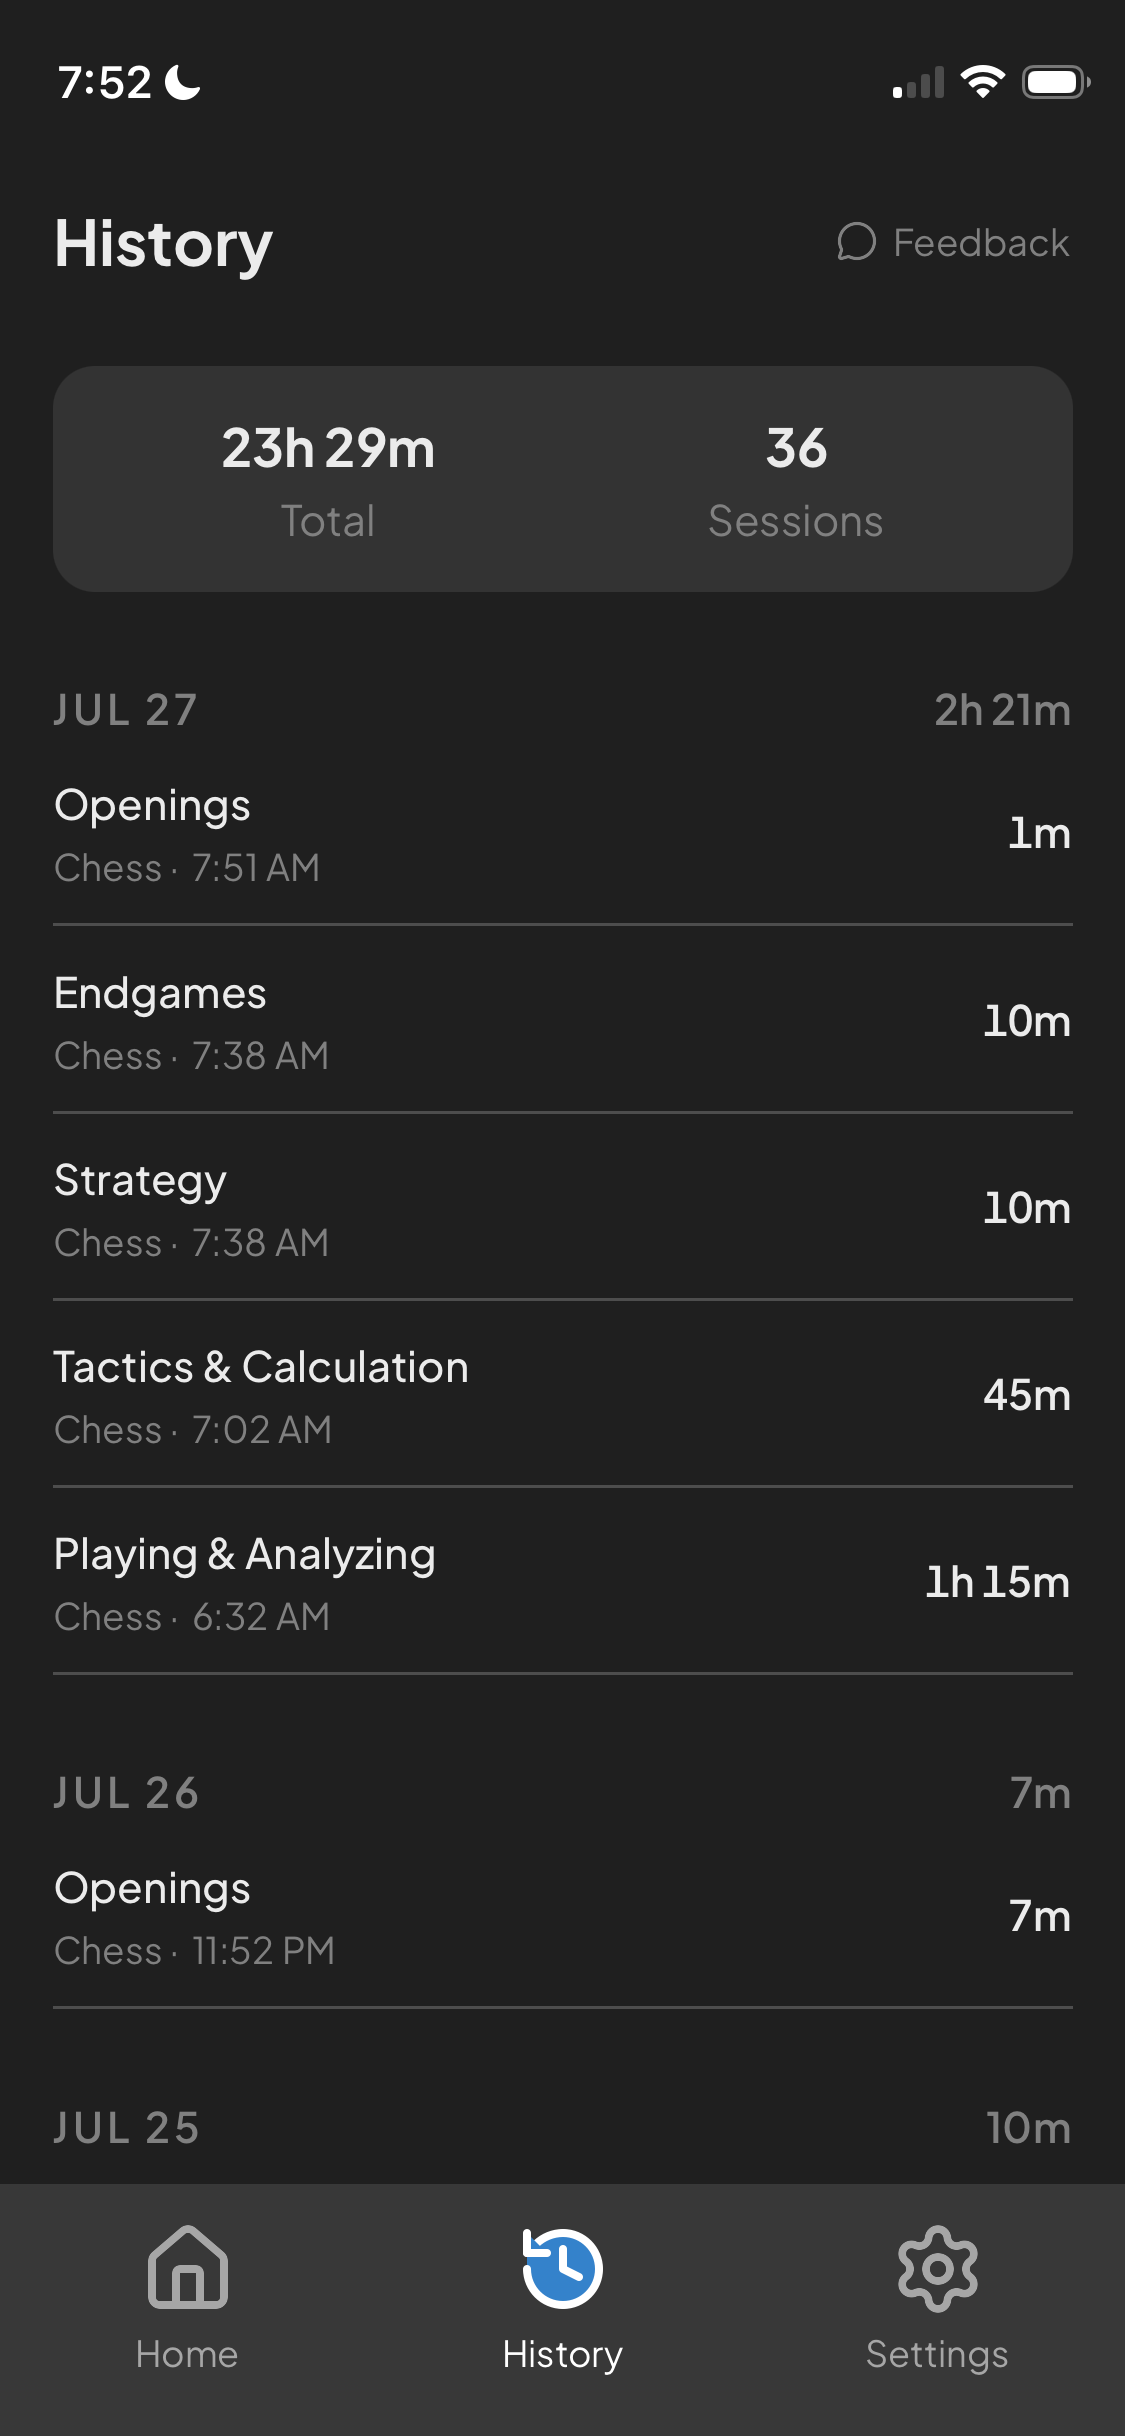
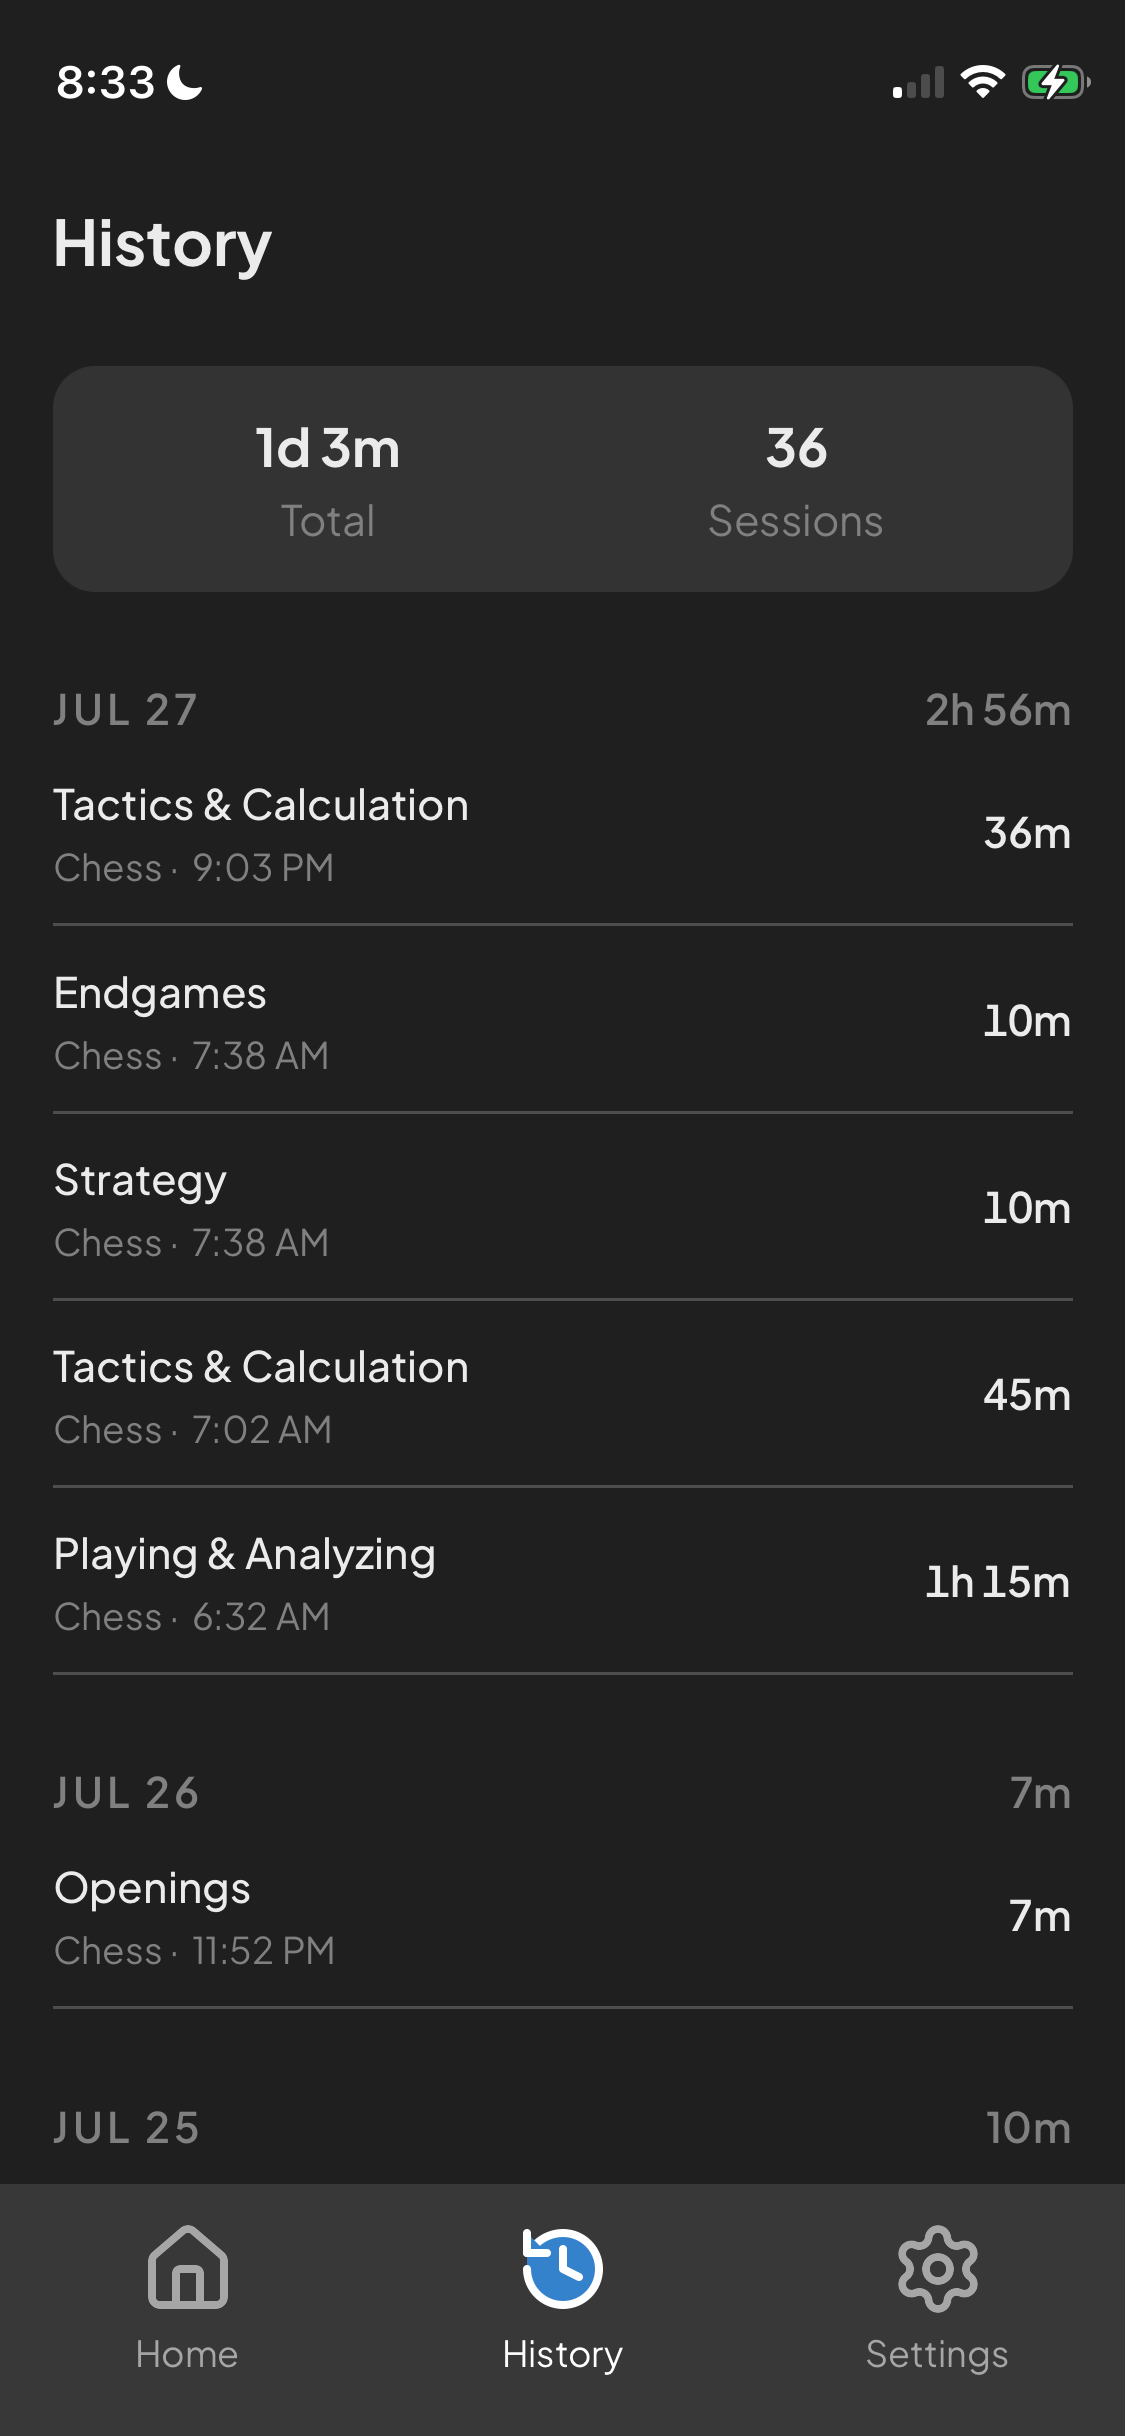
styling and screenshot updates

diff --git a/src/routes/+page.svelte b/src/routes/+page.svelte
@@ -16,7 +16,7 @@
 	const screenshots: Screenshot[] = [
 		{
 			image: editCategoryScreenshot,
-			feature: 'Customize Goals',
+			feature: 'Set Goals for Any Skill',
 		},
 		{
 			image: homeScreenshot,
@@ -28,11 +28,11 @@
 		},
 		{
 			image: liveActivityScreenshot,
-			feature: 'Monitor Your Session Easily',
+			feature: 'Monitor Your Sessions Easily',
 		},
 		{
 			image: widgetsScreenshot,
-			feature: 'Quick Access With Widgets',
+			feature: 'Prepare With Widgets',
 		},
 		{
 			image: historyScreenshot,
@@ -100,18 +100,20 @@
 			</ul>
 		</div>
 	</div>
-	<div class="flex items-center mx-auto overflow-hidden justify-center rounded-2xl border w-64 sm:w-72">
+	<div
+		class="flex items-center mx-auto overflow-hidden justify-center rounded-[32px] sm:rounded-[36px] border w-64 sm:w-72"
+	>
 		<img src={homeScreenshot} alt="Screenshot of the app" />
 	</div>
 </section>
 
-<section class="mx-auto max-w-5xl px-4 pb-16">
+<section class="mx-auto max-w-5xl px-4 py-16">
 	<h2 class="text-4xl text-center sm:text-start font-bold mb-2">Your Path to Improvement</h2>
 	<p class="text-lg text-muted-foreground text-center sm:text-start">Everything you need to get better</p>
 	<div class="mt-8 grid grid-cols-1 sm:grid-cols-2 md:grid-cols-3 gap-12">
 		{#each screenshots as screenshot, i}
 			<div class="flex flex-col items-center gap-2">
-				<div class="flex mb-2 w-64 mx-auto h-115 items-center justify-center rounded-2xl border overflow-hidden">
+				<div class="flex mb-2 w-64 mx-auto h-115 items-center justify-center rounded-[32px] border overflow-hidden">
 					<img
 						src={screenshot.image}
 						alt={screenshot.feature}
@@ -122,4 +124,13 @@
 			</div>
 		{/each}
 	</div>
+</section>
+
+<section class="mx-auto max-w-5xl px-4 pt-16 md:pb-32 pb-16">
+	<h2 class="text-4xl text-center sm:text-start font-bold mb-2">Why I Built Skill Max</h2>
+	<p class="text-lg text-muted-foreground text-center sm:text-start">
+		I originally built Skill Max for myself as a chess improvement tool. My goal was to eliminate the decision fatigue
+		of figuring out what to practice next. As I used it, I realized the same approach could help with learning any
+		skill, from music to coding to languages. I've already found it helpful, and I hope you will too.
+	</p>
 </section>

diff --git a/src/routes/support/+page.svelte b/src/routes/support/+page.svelte
@@ -16,6 +16,14 @@
 
 	<div class="mt-4 space-y-6">
 		<div>
+			<h3 class="font-medium">What skills can I add?</h3>
+			<p class="mt-1 text-muted-foreground">
+				Anything! {APP_NAME} is designed to work with any skill, including music, languages, sports, games, and more. You
+				can add as many skills as you want.
+			</p>
+		</div>
+
+		<div>
 			<h3 class="font-medium">How do I add a skill?</h3>
 			<p class="mt-1 text-muted-foreground">
 				The first time you load the app, you'll see an "Add Skill" button. Tap it to create your first skill. You must
@@ -27,10 +35,10 @@
 		</div>
 
 		<div>
-			<h3 class="font-medium">What are categories used for?</h3>
+			<h3 class="font-medium">What are categories?</h3>
 			<p class="mt-1 text-muted-foreground">
 				Categories let you split a skill into the individual areas you want to improve. For example, a "Guitar" skill
-				might have categories like "Chords," "Scales," and "Songs." Time is tracked separately for each category.
+				might have categories like "Chords", "Scales", and "Songs". Time is tracked separately for each category.
 			</p>
 		</div>
 
@@ -81,13 +89,21 @@
 				be lost.
 			</p>
 		</div>
+
+		<div>
+			<h3 class="font-medium">Is this available for Android?</h3>
+			<p class="mt-1 text-muted-foreground">
+				Not yet. {APP_NAME} is currently only available for iOS devices. I may release an Android version in the future,
+				but I don't have a timeline for that yet.
+			</p>
+		</div>
 	</div>
 
 	<h2 class="mt-10 text-xl font-semibold">Contact us</h2>
 	<p class="mt-2 text-muted-foreground">
 		Can't find what you're looking for, or run into a bug? Feel free to submit anonymous feedback via the Feedback form
-		in the app, reach out at
+		on the Settings page of the app, or reach out at
 		<a href="mailto:support@skillmaxapp.com" class="underline">support@skillmaxapp.com</a>
-		and we'll get back to you as soon as we can.
+		and I'll get back to you as soon as I can.
 	</p>
 </section>

diff --git a/src/routes/layout.css b/src/routes/layout.css
@@ -33,19 +33,19 @@
 	font-display: swap;
 }
 :root {
-	/* App tokens (from mobile app globals.css) */
-	--surface-primary: hsl(40 25% 96%);
-	--surface-primary-raised: hsl(40 30% 98%);
-	--surface: hsl(40 8% 92%);
-	--surface-raised: hsl(40 20% 96%);
-	--surface-secondary: hsl(40 5% 89%);
-	--line-border: hsl(40 12% 84%);
+	/* App tokens (mostly from mobile app globals.css) - dark mode only */
+	--surface-primary: hsl(0 0% 8%);
+	--surface-primary-raised: hsl(0 0% 16%);
+	--surface: hsl(0 0% 20%);
+	--surface-raised: hsl(0 0% 24%);
+	--surface-secondary: hsl(0 0% 22%);
+	--line-border: hsl(0 0% 30%);
 	--brand-accent: hsl(209 59% 50%);
 	--brand-accent-subtle: hsl(209 100% 29%);
-	--state-error: hsl(0 84% 58%);
-	--text-primary: hsl(30 8% 12%);
-	--text-secondary: hsl(30 5% 34%);
-	--text-muted: hsl(30 3% 50%);
+	--state-error: hsl(0 84% 60%);
+	--text-primary: hsl(0 0% 92%);
+	--text-secondary: hsl(0 0% 65%);
+	--text-muted: hsl(0 0% 65%);
 	--text-accent: hsl(0 0% 100%);
 	--success: hsl(142 71% 42%);
 
@@ -81,22 +81,6 @@
 	--sidebar-accent-foreground: var(--text-primary);
 	--sidebar-border: var(--line-border);
 	--sidebar-ring: var(--brand-accent);
-
-	@media (prefers-color-scheme: dark) {
-		--surface-primary: hsl(0 0% 8%);
-		--surface-primary-raised: hsl(0 0% 16%);
-		--surface: hsl(0 0% 20%);
-		--surface-raised: hsl(0 0% 24%);
-		--surface-secondary: hsl(0 0% 22%);
-		--line-border: hsl(0 0% 30%);
-		--brand-accent: hsl(209 59% 50%);
-		--brand-accent-subtle: hsl(209 100% 29%);
-		--state-error: hsl(0 84% 60%);
-		--text-primary: hsl(0 0% 92%);
-		--text-secondary: hsl(0 0% 65%);
-		--text-muted: hsl(0 0% 60%);
-		--text-accent: hsl(0 0% 100%);
-	}
 }
 
 @theme inline {

diff --git a/src/lib/components/Header.svelte b/src/lib/components/Header.svelte
@@ -1,9 +1,10 @@
 <script lang="ts">
 	import { page } from '$app/state'
 	import logo from '$lib/assets/favicons/apple-icon.png'
+	import DownloadButton from '$lib/components/DownloadButton.svelte'
 	import { Button } from '$lib/components/ui/button'
 	import * as Sheet from '$lib/components/ui/sheet'
-	import { APP_NAME, APP_URL } from '$lib/constants'
+	import { APP_NAME } from '$lib/constants'
 	import { cn } from '$lib/utils'
 	import MenuIcon from '@lucide/svelte/icons/menu'
 
@@ -34,15 +35,7 @@
 					{link.label}
 				</a>
 			{/each}
-			<Button
-				href={APP_URL}
-				class="group relative overflow-hidden shadow-lg hover:shadow-success/20 transition-transform hover:scale-105 flex items-center gap-2 p-4"
-			>
-				<span
-					class="absolute inset-0 origin-left scale-x-0 bg-success transition-transform duration-500 ease-out group-hover:scale-x-100 rounded-full"
-				></span>
-				<p class="relative text-sm">Download {APP_NAME}</p>
-			</Button>
+			<DownloadButton />
 		</nav>
 
 		<Sheet.Root bind:open>
@@ -67,6 +60,7 @@
 							{link.label}
 						</a>
 					{/each}
+					<DownloadButton class="w-fit" />
 				</nav>
 			</Sheet.Content>
 		</Sheet.Root>

diff --git a/src/routes/privacy-policy/+page.svelte b/src/routes/privacy-policy/+page.svelte
@@ -8,7 +8,7 @@
 
 <section class="mx-auto max-w-3xl px-4 py-16">
 	<h1 class="text-3xl font-bold tracking-tight">Privacy Policy</h1>
-	<p class="mt-2 text-sm text-muted-foreground">Last updated: July 26, 2026</p>
+	<p class="mt-2 text-sm text-muted-foreground">Last updated: July 28, 2026</p>
 
 	<p class="mt-6 text-muted-foreground">
 		This Privacy Policy explains what information {APP_NAME} collects and how it is used. We built {APP_NAME} to respect
@@ -27,8 +27,8 @@
 		<li>A randomly generated identifier used to recognize repeat usage, which is not tied to your name or email</li>
 	</ul>
 	<p class="mt-2 text-muted-foreground">
-		We do not collect your name, email address, or any personally identifiable data. We do not use any of the skill,
-		category, or time-tracking data you create in the app for advertising or marketing purposes.
+		We do not collect your name, email address, or any personally identifiable data. We do not use any of the data you
+		create in the app for advertising or marketing purposes.
 	</p>
 
 	<h2 class="mt-10 text-xl font-semibold">How We Use It</h2>

diff --git a/src/lib/components/DownloadButton.svelte b/src/lib/components/DownloadButton.svelte
@@ -1,0 +1,22 @@
+<script lang="ts">
+	import { Button } from '$lib/components/ui/button'
+	import { APP_NAME, APP_URL } from '$lib/constants'
+	import { cn } from '$lib/utils'
+
+	let { class: className }: { class?: string } = $props()
+</script>
+
+<Button
+	href={APP_URL}
+	target="_blank"
+	rel="noopener noreferrer"
+	class={cn(
+		'group relative overflow-hidden shadow-lg hover:shadow-success/20 transition-transform hover:scale-105 flex items-center gap-2 p-4',
+		className,
+	)}
+>
+	<span
+		class="absolute inset-0 origin-left scale-x-0 bg-success transition-transform duration-500 ease-out group-hover:scale-x-100 rounded-full"
+	></span>
+	<p class="relative text-sm">Download {APP_NAME}</p>
+</Button>

diff --git a/src/lib/components/Footer.svelte b/src/lib/components/Footer.svelte
@@ -1,4 +1,5 @@
 <script lang="ts">
+	import DownloadButton from '$lib/components/DownloadButton.svelte'
 	import { Separator } from '$lib/components/ui/separator'
 
 	const navLinks = [
@@ -12,6 +13,7 @@
 	<div
 		class="mx-auto flex max-w-5xl flex-col items-center gap-4 px-4 py-8 text-sm text-muted-foreground sm:flex-row sm:justify-between"
 	>
+		<DownloadButton class="md:hidden" />
 		<p>&copy; {new Date().getFullYear()} Will Braun. All rights reserved.</p>
 		<nav class="flex items-center gap-4">
 			{#each navLinks as link (link.href)}
